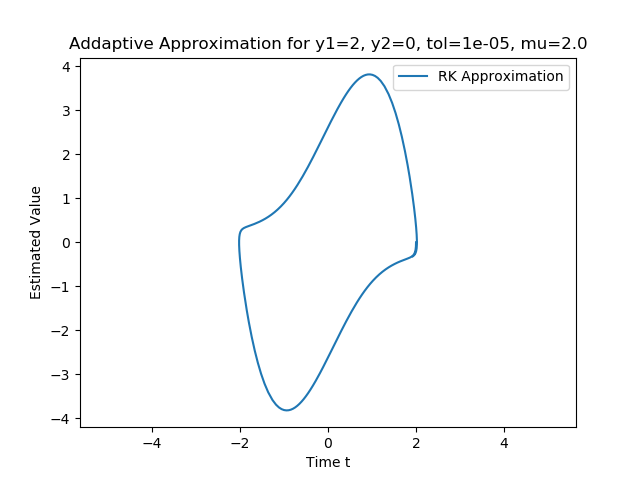
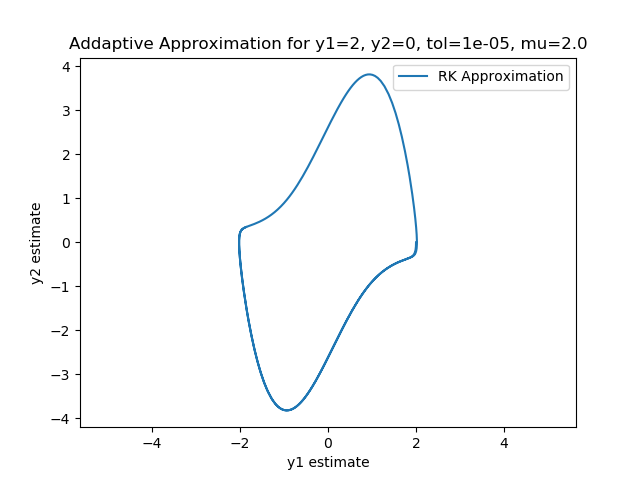
updated handin2

Changed region(s): [[0.0312, 0.375, 0.0625, 0.625], [0.4375, 0.9375, 0.5938, 1.0], [0.4375, 0.8438, 0.4688, 0.875]]

diff --git a/progTask2/report.tex b/progTask2/report.tex
@@ -126,17 +126,53 @@ irregular.
 	\item[(c)]
 		As the values for the solutions tend to get very large in
 		absolute value, this report restricted values for $\mu$ to under
-		$8$. For the value of $\mu=8$, the phase graph was approximated
-		with the adaptive method.
+		$8$. For some small values of $\mu$, the entire phase graph was
+		approximated with the adaptive method.
+		\begin{figure}[H]
+			\includegraphics[scale=0.6]{adapt_vdp0}
+		\end{figure}
+		\begin{figure}[H]
+			\includegraphics[scale=0.6]{adapt_vdp2}
+		\end{figure}
+		\begin{figure}[H]
+			\includegraphics[scale=0.6]{adapt_vdp4}
+		\end{figure}
 		\begin{figure}[H]
 			\includegraphics[scale=0.6]{adapt_vdp8}
 		\end{figure}
+
+		For a fixed value of $\mu=2$, various starting values were used,
+		as graphed below:
+		\begin{figure}[H]
+			\includegraphics[scale=0.6]{start_2_01_0}
+		\end{figure}
+		\begin{figure}[H]
+			\includegraphics[scale=0.6]{start_2_15_0}
+		\end{figure}
+		\begin{figure}[H]
+			\includegraphics[scale=0.6]{start_2_25_0}
+		\end{figure}
+		\begin{figure}[H]
+			\includegraphics[scale=0.6]{start_2_0_10}
+		\end{figure}
+		Interestingly, the solution seems to quickly approach the $(2,
+		0)$ solution, rather than make a larger figure, as would be the
+		cased for an undamped oscillator.
+
 		The variation in the time step sizes is visualized below:
 		\begin{figure}[H]
 			\includegraphics[scale=0.6]{adapt_times}
 		\end{figure}
 
-		A log-log graph would not be appropriate here, as the local
-		error has no meaning in this context.
+		Finally, the number of time-steps taken for various values of
+		$\mu$ is given in the following graph:
+		\begin{figure}[H]
+			\includegraphics[scale=0.6]{Mu_to_steps}
+		\end{figure}
+
+		A log-log graph would not be appropriate here, as this is not a
+		reflection of the quality of the estimation:  different values
+		of $\mu$ yields fundamentally different graphs, which may or may
+		not require more steps to estimate. 
 \end{itemize}
 \end{document}

diff --git a/progTask2/question_2_ad_stp_to_mu.py b/progTask2/question_2_ad_stp_to_mu.py
@@ -1,0 +1,50 @@
+#! /usr/bin/python3
+
+import sys
+import math
+import numpy as np
+import matplotlib.pyplot as plt
+
+import adaptive_rk as ad
+
+global lmbd
+global n
+global y1
+global y2
+global mu
+y1=2
+y2=0
+Mu = [1.5, 10, 15, 22, 33, 68, 100, 150, 220, 470, 680, 1000]
+
+def f(t, xt):
+    return np.array([xt[1], mu * (1 - xt[0] * xt[0]) * xt[1] - xt[0]])
+
+if __name__ == "__main__":
+
+    if len(sys.argv) >= 2:
+        y1 = float(sys.argv[1])
+    if len(sys.argv) >= 3:
+        y2 = float(sys.argv[2])
+
+    step_count = []
+    for mu in Mu:
+        print("mu: " + str(mu))
+        times, vals = ad.approximate(f=f,
+                                     X0=np.array([y1, y2]),
+                                     T=[0.0, 0.7 * mu],
+                                     tau_max=0.5,
+                                     tol=0.00001)
+        step_count.append(len(times))
+        print("Step count: " + str(step_count[-1]))
+
+    #plt.loglog(Mu, step_count, label='Step Count')
+    plt.plot(Mu, step_count, label='Step Count')
+    #plt.axis('equal')
+    plt.legend()
+
+    plt.xlabel("Mu")
+    plt.ylabel("Number of steps taken")
+    plt.title("Step count to Mu for y1=" + str(y1) + \
+            ", y2=" + str(y2) + \
+            ", tol=" + str(0.00001))
+    plt.show()

diff --git a/progTask2/question_2_ad_vdp.py b/progTask2/question_2_ad_vdp.py
@@ -8,12 +8,10 @@ import matplotlib.pyplot as plt
 import adaptive_rk as ad
 
 global lmbd
-global Tau
 global n
 global y1
 global y2
 global mu
-Tau = 0.1
 y1=2
 y2=0
 mu=1.5
@@ -26,16 +24,13 @@ if __name__ == "__main__":
         mu = float(sys.argv[1])
 
     if len(sys.argv) >= 3:
-        Tau = float(sys.argv[2])
-
+        y1 = float(sys.argv[2])
     if len(sys.argv) >= 4:
-        y1 = float(sys.argv[3])
-    if len(sys.argv) >= 5:
-        y2 = float(sys.argv[4])
+        y2 = float(sys.argv[3])
 
     times, vals = ad.approximate(f=f,
                                  X0=np.array([y1, y2]),
-                                 T=[0.0, 1.97 * mu],
+                                 T=[0.0, 8 * mu],
                                  tau_max=0.5,
                                  tol=0.00001)
 
@@ -45,8 +40,8 @@ if __name__ == "__main__":
     plt.axis('equal')
     plt.legend()
 
-    plt.xlabel("Time t")
-    plt.ylabel("Estimated Value")
+    plt.xlabel("y1 estimate")
+    plt.ylabel("y2 estimate")
     plt.title("Addaptive Approximation for y1=" + str(y1) + \
             ", y2=" + str(y2) + \
             ", tol=" + str(0.00001) + \

diff --git a/progTask2/adaptive_rk.py b/progTask2/adaptive_rk.py
@@ -46,7 +46,7 @@ def approximate(T=[0.0, 1.0], X0=np.array([1.0]), f=f_test, tol=0.1,
             Z3 = rk_3step(Z, t, t+tau, f)
             Z4 = rk_4step(Z, t, t+tau, f)
             err = np.linalg.norm(Z3 - Z4)
-        print(tau)
+        #print(tau)
 
         # if we are still within time ranges, add to list
         if t + tau < t_final:
